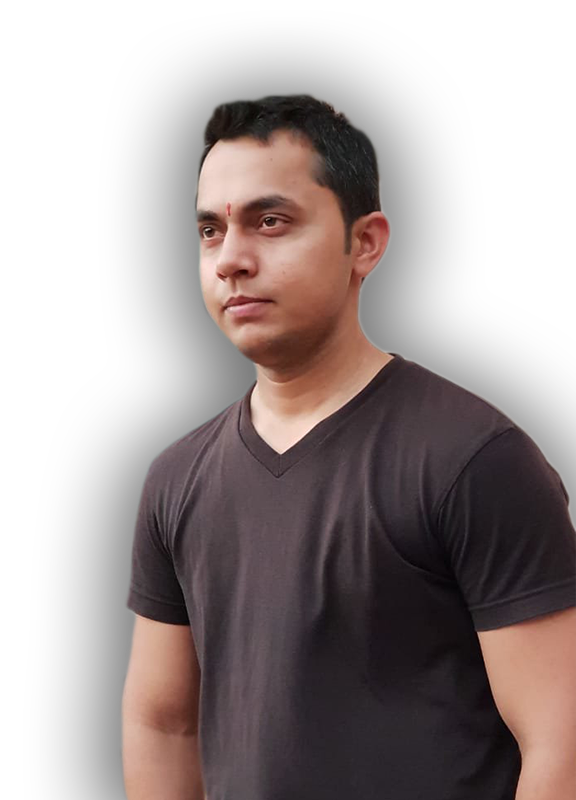
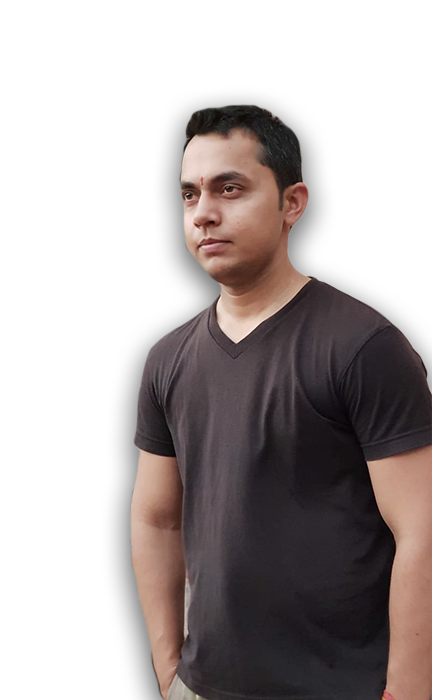
Added temporary employee images.

diff --git a/app/assets/js/app.js b/app/assets/js/app.js
@@ -190,13 +190,13 @@ var team = new Vue({
       name: 'Naresh',
       designation: 'Head Technology',
       smallImage: 'assets/img/employee4.jpg',
-      bigImage: 'assets/img/employee2-large.jpg',
+      bigImage: 'assets/img/employee4-large.png',
       quote: 'I was born in delhi and literally became a friend of this dude over the internet. Guess 21st century is kicking it hard on us.'
     }, {
       name: 'Zohaib',
       designation: 'Head HR & Admin',
       smallImage: 'assets/img/employee5.jpg',
-      bigImage: 'assets/img/employee2-large.jpg',
+      bigImage: 'assets/img/employee5-large.png',
       quote: 'I was born in delhi and literally became a friend of this dude over the internet. Guess 21st century is kicking it hard on us.'
     }]
   },

diff --git a/app/temp/scripts/app.js b/app/temp/scripts/app.js
@@ -290,13 +290,13 @@ var team = new Vue({
       name: 'Naresh',
       designation: 'Head Technology',
       smallImage: 'assets/img/employee4.jpg',
-      bigImage: 'assets/img/employee2-large.jpg',
+      bigImage: 'assets/img/employee4-large.png',
       quote: 'I was born in delhi and literally became a friend of this dude over the internet. Guess 21st century is kicking it hard on us.'
     }, {
       name: 'Zohaib',
       designation: 'Head HR & Admin',
       smallImage: 'assets/img/employee5.jpg',
-      bigImage: 'assets/img/employee2-large.jpg',
+      bigImage: 'assets/img/employee5-large.png',
       quote: 'I was born in delhi and literally became a friend of this dude over the internet. Guess 21st century is kicking it hard on us.'
     }]
   },
